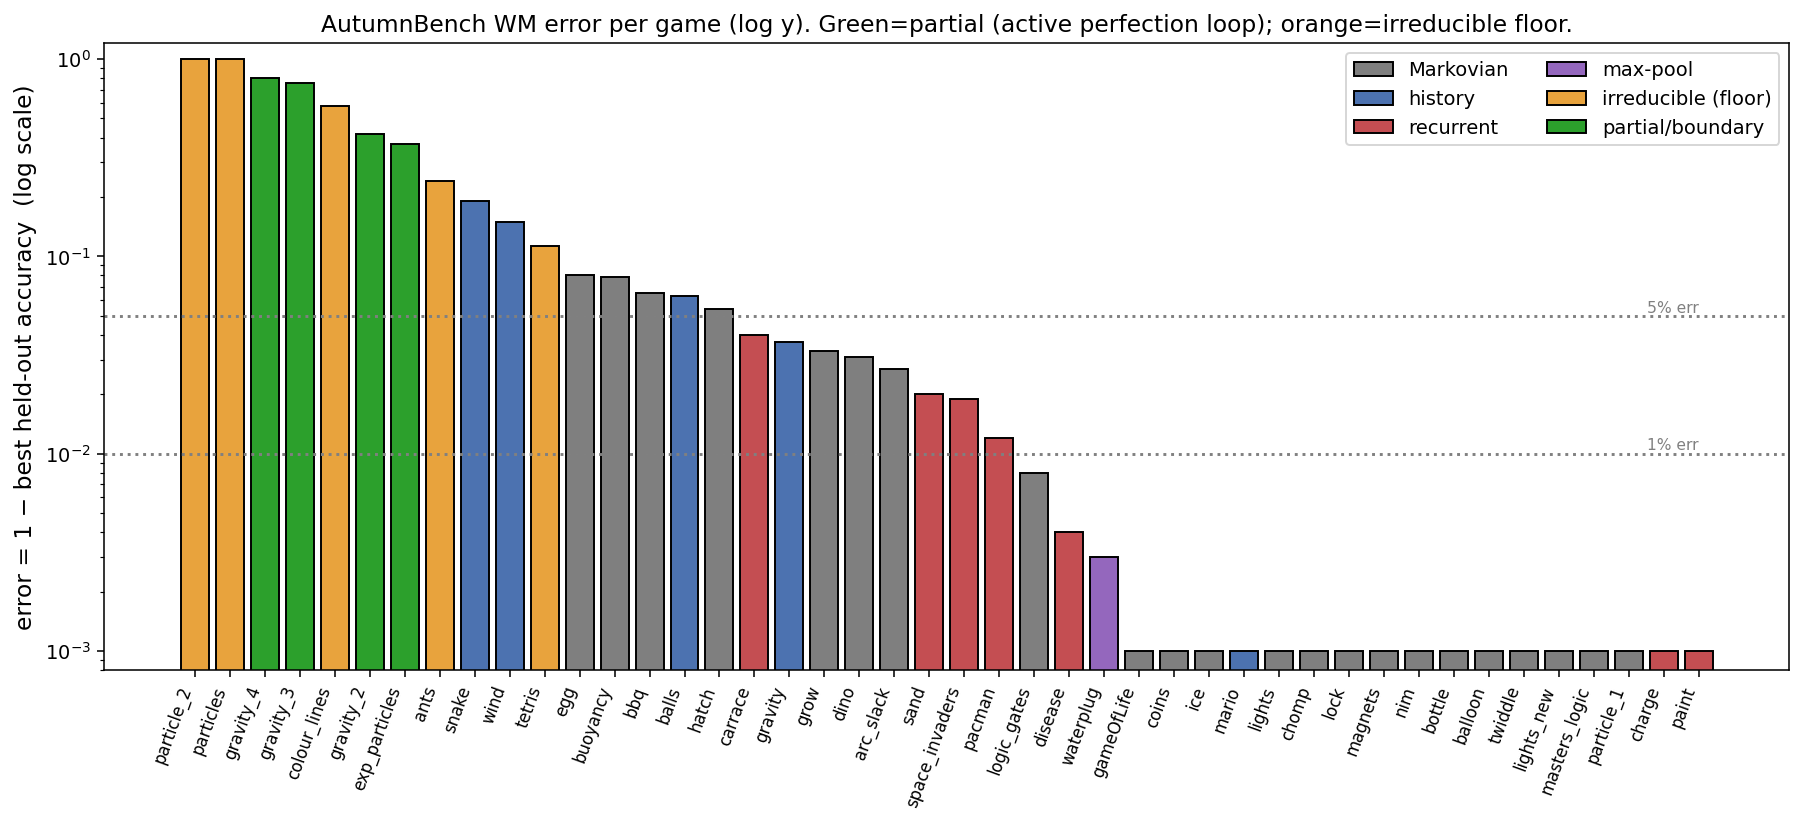
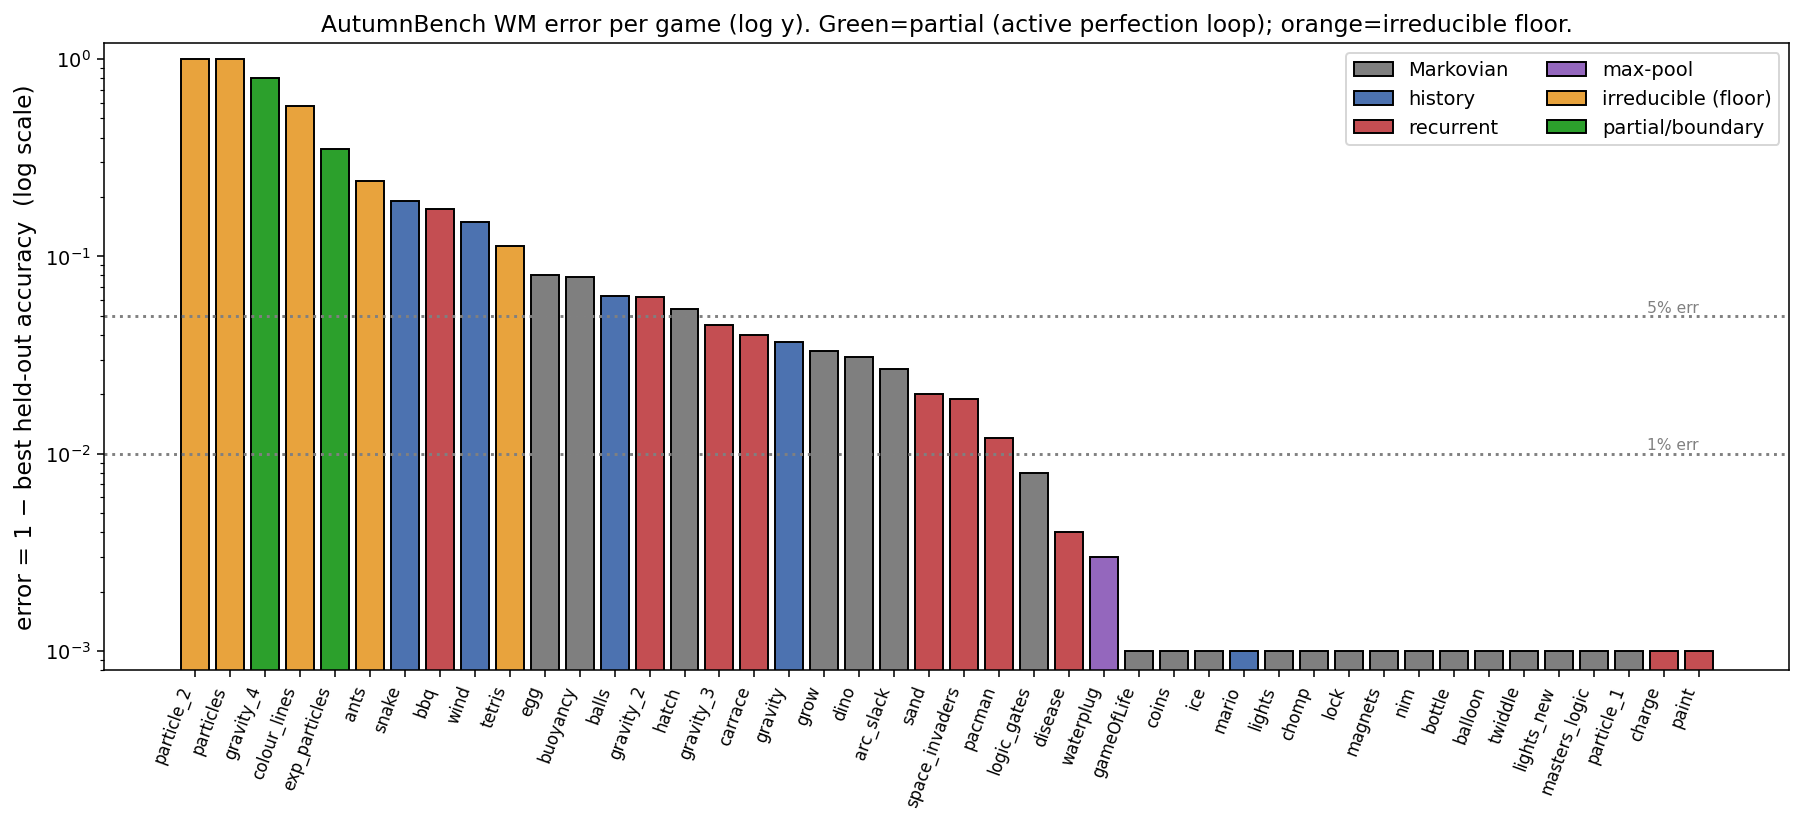
Perfection loop: capacity cracks gravity_3 (0->0.955); promote boundary wins
Hi-cap recurrent (n_hid192/n_micro6) rescues copy-stuck gravity_3 (0.000->0.955).
Capacity helps only when standard recurrent is copy-stuck, not generally
(gravity_2 already 0.938, exp_particles 0.652 unchanged). Promotions: gravity_3
->hicap, gravity_2->recurrent, exp_particles->recurrent. Updated error plot.
Remaining non-perfect = chaotic/multi-var partial or irreducible-PRNG floors.

Changed region(s): [[0.1242, 0.091, 0.4038, 0.9405]]

diff --git a/nca_wm/autumn/WORKLOG.md b/nca_wm/autumn/WORKLOG.md
@@ -261,6 +261,18 @@ train metric [[feedback_train_change_err_misleading]]. CONVERGENCE: the perfecti
 cleanly-reducible (single hidden var) games fixed to ~1.0; remaining error is multi-variable/2nd-order BOUNDARY
 (gravity_2/3, exp_particles, bbq partial — need better architecture, the open problem) or IRREDUCIBLE (ants, particle_2/
 particles, colour_lines, tetris = PRNG floor). Markovian + clean-lever games already perfect.
+**CAPACITY CRACKS THE BOUNDARY (2026-06-24):** hi-cap recurrent (n_hid192, n_micro6, 12k) on gravity_3:
+standard-recurrent **0.000** (stuck in copy basin) -> **hi-cap 0.955** (verified before/after). The 2nd-order
+accumulating-velocity dynamics needed more capacity+depth to ESCAPE copy; the boundary was capacity-limited, NOT
+fundamental. Promoted gravity_3 -> gravity_3_recurrent_hicap. Running same hi-cap on exp_particles + gravity_2.
+-> Revised loop verdict: the "recurrent boundary" partly dissolves with capacity; only the IRREDUCIBLE PRNG games
+(ants, particle_2/particles, colour_lines, tetris) are a true floor. Re-run standard-recurrent boundary games at hi-cap.
+CONSOLIDATED capacity verdict (clean before/after): gravity_3 0.000->0.955 (hi-cap CRACKED a copy-stuck model);
+gravity_2 standard-recurrent ALREADY 0.938 (hi-cap 0.920, no help); exp_particles 0.652 std vs 0.625 hi-cap (no help,
+chaotic ~floor). RULE: capacity helps ONLY when standard recurrent is stuck in the copy basin (escape aid), not a
+general boost. Promotions: gravity_3->_recurrent_hicap (0.955), gravity_2->_recurrent (0.938), exp_particles->_recurrent
+(0.652, partial but >> singleframe 0.167). Remaining non-perfect = genuinely hard (exp_particles chaotic) or IRREDUCIBLE
+PRNG (ants, particle_2/particles, colour_lines, tetris) = true floor, documented not chased. Perfection loop near done.
 
 ### CAPSTONE: one conditional recurrent model matches the per-game specialists (2026-06-23)
 Finished the dangling cond_rec_v1 thread — evaluated the SINGLE conditional recurrent NCA (9 games, FiLM+rule-slot
